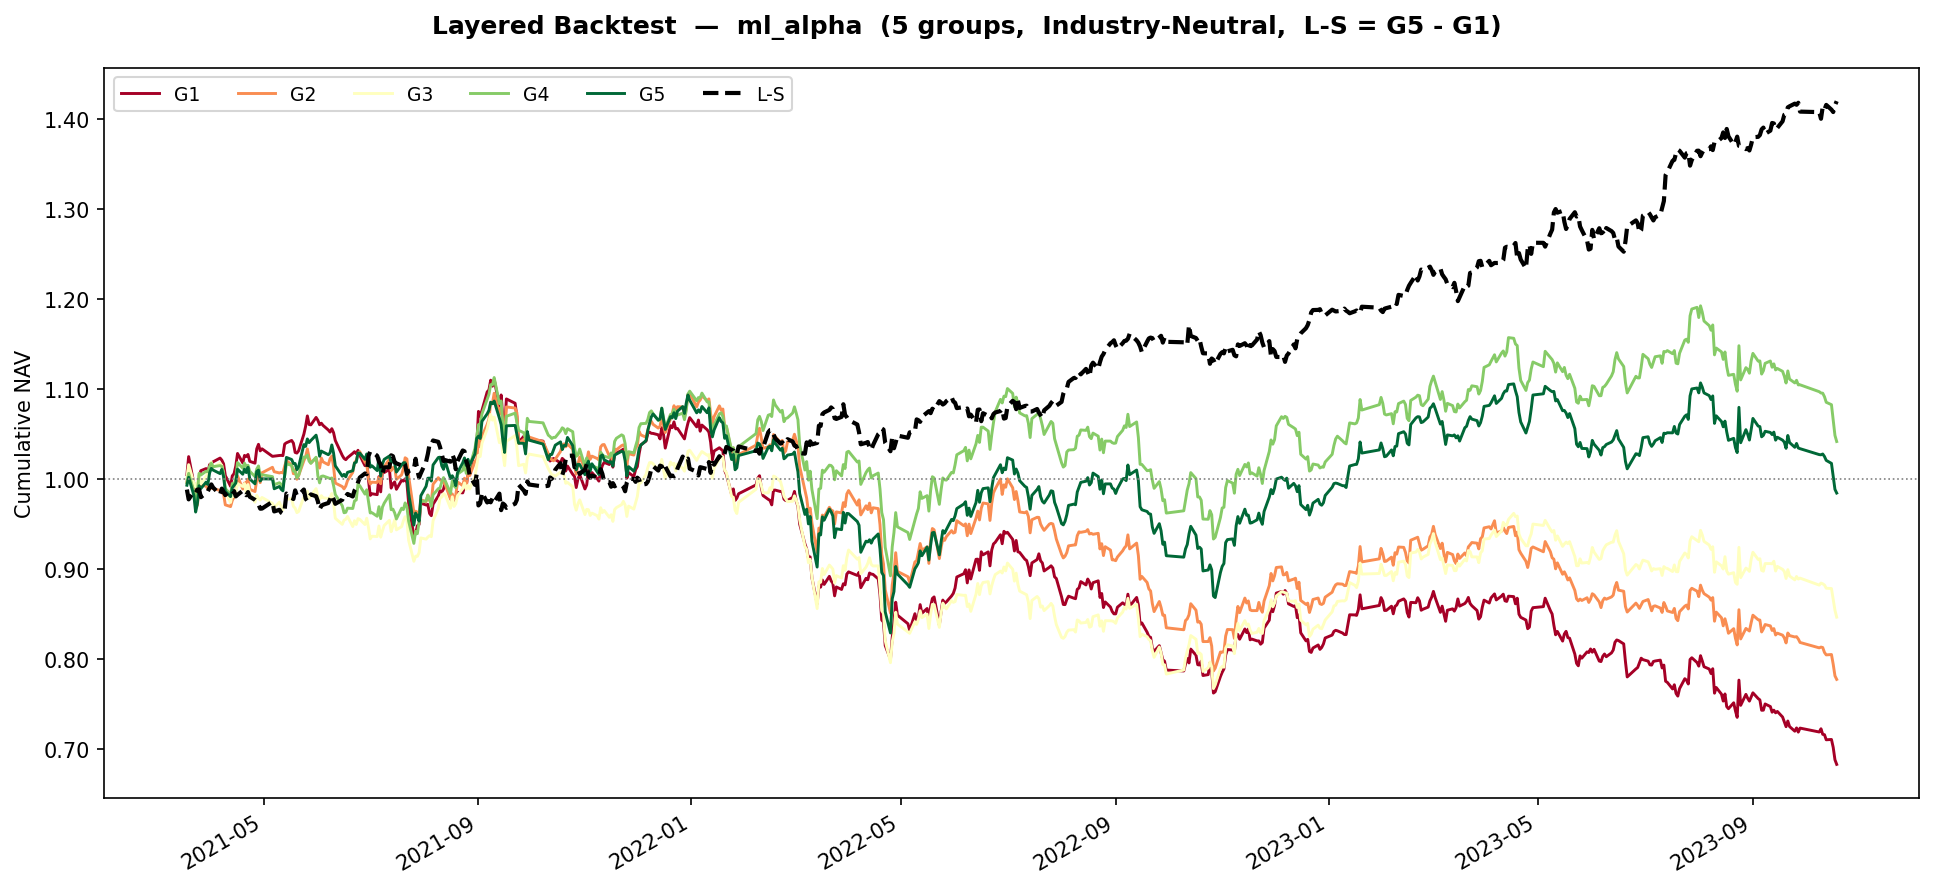
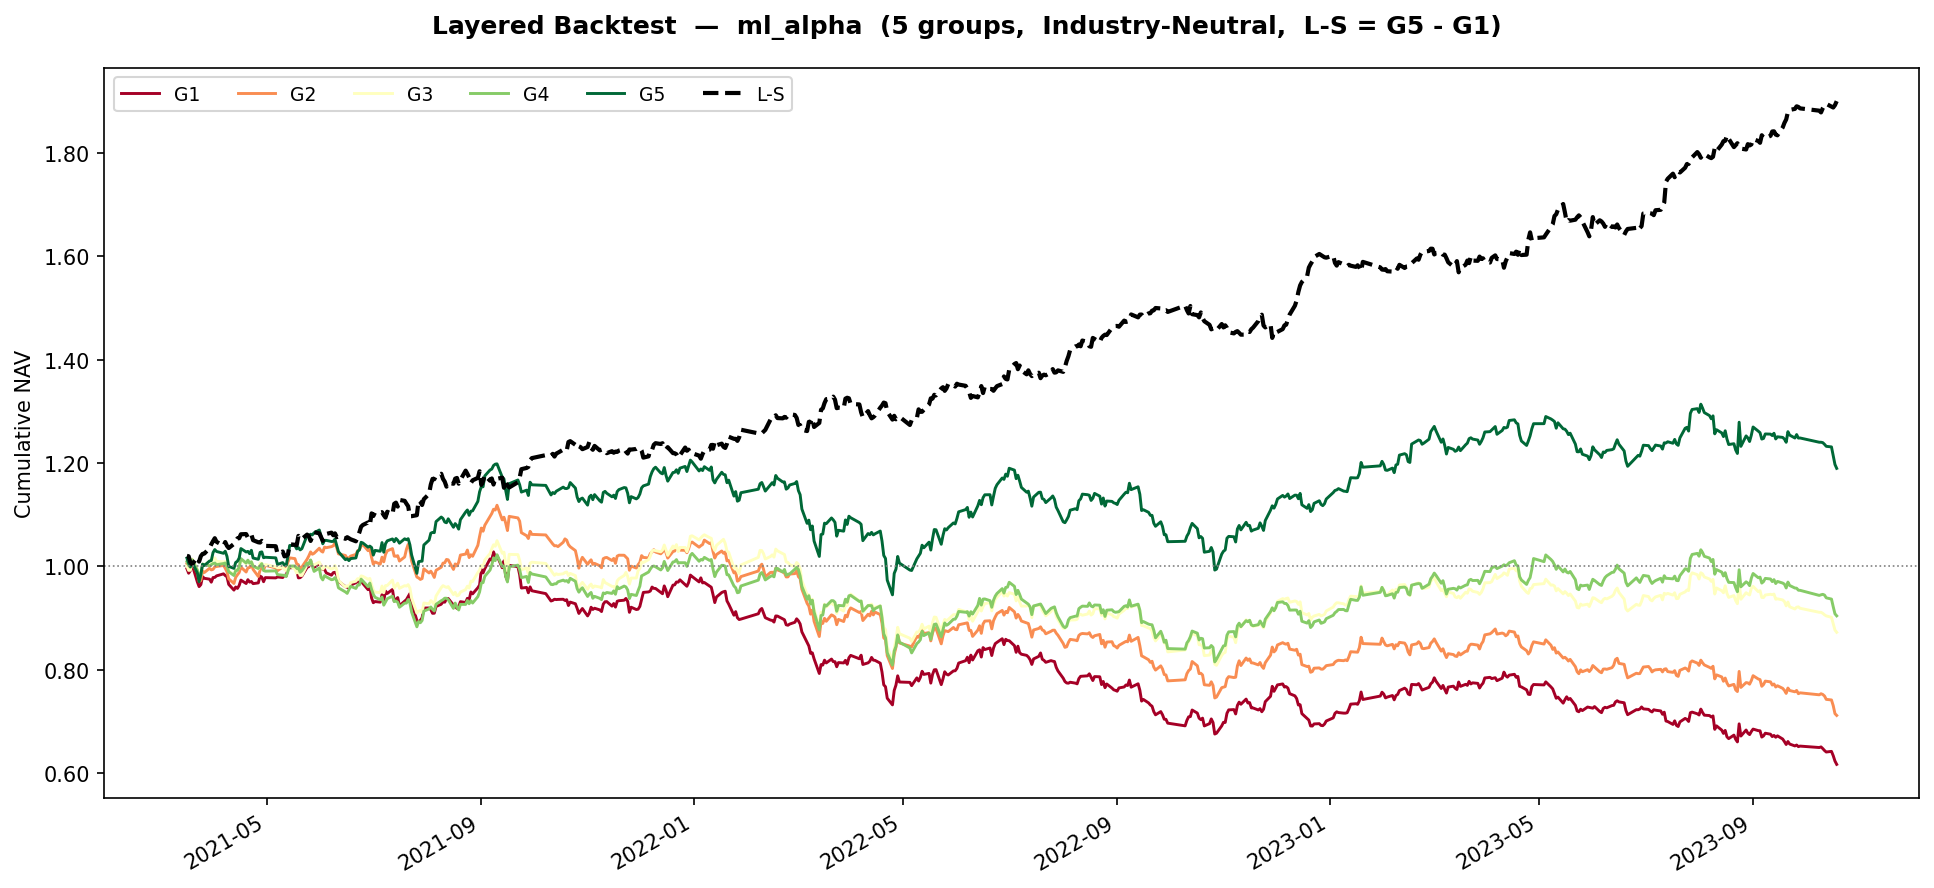
upd: 加入了更多因子

diff --git a/src/data_preparation/factors.py b/src/data_preparation/factors.py
@@ -33,6 +33,7 @@ PIT alignment note:
 
 import sys
 from pathlib import Path
+from typing import Tuple
 
 import numpy as np
 import pandas as pd
@@ -125,6 +126,10 @@ class FactorEngine:
         self.pe            = df_basic["pe"].unstack("code") if "pe" in df_basic.columns else None
         self.pb            = df_basic["pb"].unstack("code") if "pb" in df_basic.columns else None
         self.turnover_rate = df_basic["turnover_rate"].unstack("code") if "turnover_rate" in df_basic.columns else None
+        self.volume_ratio  = df_basic["volume_ratio"].unstack("code") if "volume_ratio" in df_basic.columns else None
+        self.ps_ttm       = df_basic["ps_ttm"].unstack("code") if "ps_ttm" in df_basic.columns else None
+        self.dv_ratio     = df_basic["dv_ratio"].unstack("code") if "dv_ratio" in df_basic.columns else None
+        self.circ_mv      = df_basic["circ_mv"].unstack("code") if "circ_mv" in df_basic.columns else None
 
         # ---- Industry mapping (code → SW L1 name) ----
         df_industry = data_dict["df_industry"]
@@ -249,22 +254,21 @@ class FactorEngine:
             raw=True,
         )
 
-    def _rolling_ols_resid_std(self, d: int) -> pd.DataFrame:
+    def _rolling_ols(self, d: int) -> Tuple[pd.DataFrame, pd.DataFrame]:
         """
-        Vectorized rolling OLS residual std for IVOL.
+        Vectorized rolling OLS: r_stock = alpha + beta * r_market + epsilon.
 
-        For each trading date t, fits:
-            r_stock = alpha + beta * r_market + epsilon
+        For each trading date t, fits using the previous d days.
+        Returns (beta_df, ivol_df) where:
+            beta_df: market beta coefficient (slope)
+            ivol_df: std(epsilon), idiosyncratic volatility
 
-        using the previous d days.  IVOL_t = std(epsilon).
-
-        Vectorized across stocks: for each window, stocks with no NaN in their
-        returns are processed simultaneously via batch matrix multiplication.
-        Stocks with more than d//2 NaN values in the window receive NaN.
+        Vectorized across stocks; stocks with NaN in window receive NaN.
         """
         mkt = self.market_ret.reindex(self.returns.index).values
         ret_arr = self.returns.values
         T, N = ret_arr.shape
+        beta_arr = np.full((T, N), np.nan)
         ivol_arr = np.full((T, N), np.nan)
 
         for t in range(d - 1, T):
@@ -285,11 +289,22 @@ class FactorEngine:
                 continue
 
             Y = w_ret[:, valid_stocks]
-            beta = XtX_inv_Xt @ Y
-            resid = Y - X @ beta
+            coef = XtX_inv_Xt @ Y  # shape (2, n_valid): [alpha, beta]
+            resid = Y - X @ coef
+            beta_arr[t, valid_stocks] = coef[1, :]  # market beta
             ivol_arr[t, valid_stocks] = np.std(resid, axis=0, ddof=2)
 
-        return pd.DataFrame(ivol_arr, index=self.returns.index, columns=self.returns.columns)
+        idx = self.returns.index
+        cols = self.returns.columns
+        return (
+            pd.DataFrame(beta_arr, index=idx, columns=cols),
+            pd.DataFrame(ivol_arr, index=idx, columns=cols),
+        )
+
+    def _rolling_ols_resid_std(self, d: int) -> pd.DataFrame:
+        """IVOL from rolling OLS; delegates to _rolling_ols."""
+        _, ivol_df = self._rolling_ols(d)
+        return ivol_df
 
     def _pit_align_financial(self, col: str) -> pd.DataFrame:
         """
@@ -366,6 +381,16 @@ class FactorEngine:
         if self.market_ret.empty:
             return pd.DataFrame(np.nan, index=self.close.index, columns=self.close.columns)
         return self._rolling_ols_resid_std(d=20)
+
+    def factor_beta(self) -> pd.DataFrame:
+        """
+        Rolling 20-day market beta: slope from OLS regression of stock returns
+        on CSI 300 returns. Same regression as factor_ivol.
+        """
+        if self.market_ret.empty:
+            return pd.DataFrame(np.nan, index=self.close.index, columns=self.close.columns)
+        beta_df, _ = self._rolling_ols(d=20)
+        return beta_df
 
     def factor_realized_skewness(self) -> pd.DataFrame:
         """
@@ -618,6 +643,35 @@ class FactorEngine:
         Size factor; smaller stocks typically have higher expected returns.
         """
         return self._log(self.total_mv.replace(0, np.nan))
+
+    def factor_ps(self) -> pd.DataFrame:
+        """
+        Sales-to-price ratio: 1 / ps_ttm (price-to-sales TTM).
+        Valuation factor; higher values indicate cheaper valuation by sales.
+        Returns NaN when ps_ttm is missing or zero.
+        """
+        if self.ps_ttm is None:
+            return pd.DataFrame(np.nan, index=self.close.index, columns=self.close.columns)
+        return 1.0 / self.ps_ttm.replace(0, np.nan)
+
+    def factor_dv_ratio(self) -> pd.DataFrame:
+        """
+        Dividend yield (dv_ratio from daily_basic).
+        Higher values indicate higher dividend-paying stocks.
+        """
+        if self.dv_ratio is None:
+            return pd.DataFrame(np.nan, index=self.close.index, columns=self.close.columns)
+        return self.dv_ratio.copy()
+
+    def factor_circ_mv_ratio(self) -> pd.DataFrame:
+        """
+        Circulating market cap ratio: circ_mv / total_mv.
+        Measures float proportion; values in (0, 1].
+        """
+        if self.circ_mv is None:
+            return pd.DataFrame(np.nan, index=self.close.index, columns=self.close.columns)
+        total_safe = self.total_mv.replace(0, np.nan)
+        return self.circ_mv / total_safe
 
     # ==================================================================
     # C — Cross-sectional relative features

diff --git a/src/LightGBM/lgbm_model.py b/src/LightGBM/lgbm_model.py
@@ -54,15 +54,15 @@ class AlphaLGBM:
         self.model = lgb.LGBMRegressor(
             objective="regression",
             n_estimators=2000,
-            learning_rate=0.01,
-            max_depth=3,
-            num_leaves=7,
+            learning_rate=0.005,
+            max_depth=5,
+            num_leaves=20,
             subsample=0.8,
             subsample_freq=1,
             colsample_bytree=0.8,
             min_child_samples=30,
             reg_alpha=0.1,
-            reg_lambda=1.0,
+            reg_lambda=0.5,
             random_state=42,
             n_jobs=-1,
             verbose=-1,
@@ -92,7 +92,7 @@ class AlphaLGBM:
         self.feature_names = X_train.columns.tolist()
 
         callbacks = [
-            lgb.early_stopping(stopping_rounds=100, verbose=False),
+            lgb.early_stopping(stopping_rounds=150, verbose=False),
             lgb.log_evaluation(period=-1),
         ]
 

diff --git a/src/LightGBM/ml_analyze_main.py b/src/LightGBM/ml_analyze_main.py
@@ -325,7 +325,7 @@ def main() -> None:
     ).reset_index(drop=True)
     final_alpha_df["ml_alpha"] = (
         final_alpha_df.groupby("ts_code")["ml_alpha"]
-        .transform(lambda s: s.rolling(window=3, min_periods=3).mean())
+        .transform(lambda s: s.rolling(window=1, min_periods=1).mean())
     )
     final_alpha_df = final_alpha_df.dropna(subset=["ml_alpha"]).reset_index(drop=True)
 

diff --git a/Instruction.md b/Instruction.md
@@ -78,7 +78,7 @@ _compute_tradable()
   → tradable_mask (MultiIndex date×code 的 bool Series)
        ↓
 FactorEngine.get_all_factors()
-  → MultiIndex (date, code) × 50 个原始因子 (保留 NaN/inf)
+  → MultiIndex (date, code) × 55 个原始因子 (保留 NaN/inf)
        ↓
 FactorCleaner.process_all()
   Step 1: ±inf → NaN
@@ -113,18 +113,20 @@ FactorCleaner.process_all()
 
 #### 因子清单
 
-**A 组 — 微观结构与量价因子**（使用复权价格，共 32 个）
+**A 组 — 微观结构与量价因子**（使用复权价格，共 34 个）
 
 | 因子名 | 公式 | 说明 |
 |--------|------|------|
 | `factor_amihud_illiq` | \(\frac{1}{20}\sum\frac{\|R_t\|}{\text{amount}_t}\times 10^6\) | Amihud 非流动性，值越大流动性越差 |
 | `factor_ivol` | \(\text{std}(\varepsilon_t)\)，20 日滚动 OLS 残差 | 特异性波动率，对 CSI300 做回归后的残差标准差 |
+| `factor_beta` | 20 日滚动 OLS 回归斜率 | 对 CSI300 的市场 beta，与 IVOL 同回归 |
 | `factor_realized_skewness` | \(\text{skew}(R_t, 20\text{天})\) | 日收益率 20 日偏度（bias-corrected） |
 | `factor_vol_price_corr` | \(\text{Corr}(\text{rank}(\text{close}), \text{rank}(\text{vol}), 10)\) | 量价秩相关（Spearman），10 日 |
 | `factor_vol_price_corr_20d` | 同上，窗口 20 | 量价秩相关（Spearman），20 日 |
 | `factor_vw_return_5d` | \(\sum(R_t \cdot V_t, 5) / \sum(V_t, 5)\) | 成交量加权收益率，5 日 |
 | `factor_vw_return_10d` | 同上，窗口 10 | 成交量加权收益率，10 日 |
 | `factor_vol_oscillator` | \(\text{MA}(\text{vol}, 5) / \text{MA}(\text{vol}, 20)\) | 量震荡指标：短期/中期成交量比值 |
+| `factor_volume_ratio` | volume_ratio（daily_basic） | 量比：当日成交量 / 5 日均量 |
 | `factor_net_buy_proxy_5d` | \(\text{mean}\!\left(\frac{C-O}{H-L+\epsilon}\cdot V,\ 5\right)\) | 净买入代理（方向性成交），5 日 |
 | `factor_net_buy_proxy_10d` | 同上，窗口 10 | 净买入代理（方向性成交），10 日 |
 | `factor_momentum_1d` | \((C_t - C_{t-1}) / C_{t-1}\) | 1 日价格动量 |
@@ -150,7 +152,7 @@ FactorCleaner.process_all()
 | `factor_momentum_acceleration` | \(\text{mom}_{5d} - \text{mom}_{10d}\) | 动量加速度（短期减中期） |
 | `factor_return_consistency` | 20 日内正收益日占比 | 收益一致性，值域 [0, 1] |
 
-**B 组 — 基本面与估值因子**（季度数据 PIT 对齐或日频，共 4 个）
+**B 组 — 基本面与估值因子**（季度数据 PIT 对齐或日频，共 7 个）
 
 | 因子名 | 公式 | 说明 |
 |--------|------|------|
@@ -158,6 +160,9 @@ FactorCleaner.process_all()
 | `factor_bp` | \(1/\text{PB}\) | 账面市值比 |
 | `factor_roe` | 加权平均 ROE | 来自 `fina_indicator`，按 ann_date PIT 对齐 |
 | `factor_log_mv` | \(\log(\text{total\_mv})\) | 对数市值，规模因子 |
+| `factor_ps` | \(1/\text{ps\_ttm}\) | 市销率倒数（daily_basic） |
+| `factor_dv_ratio` | dv_ratio | 股息率（daily_basic） |
+| `factor_circ_mv_ratio` | circ_mv / total_mv | 流通市值占比 |
 
 **C 组 — 截面相对特征**（共 12 个）
 
@@ -183,8 +188,8 @@ FactorCleaner.process_all()
 |------|------|------|
 | `prices.parquet` | (trade_date, ts_code) | 原始 OHLCV + 复权因子 + tradable（bool） |
 | `meta.parquet` | (trade_date, ts_code) | 15 个每日基本面字段 + 申万一级行业 |
-| `factors_raw.parquet` | (trade_date, ts_code) | 48 列原始因子值，保留 NaN |
-| `factors_clean.parquet` | (trade_date, ts_code) | 48 列百分位排名 (0,1]，非可交易格子为 NaN |
+| `factors_raw.parquet` | (trade_date, ts_code) | 53 列原始因子值，保留 NaN |
+| `factors_clean.parquet` | (trade_date, ts_code) | 53 列百分位排名 (0,1]，非可交易格子为 NaN |
 
 #### 重要特殊细节
 
